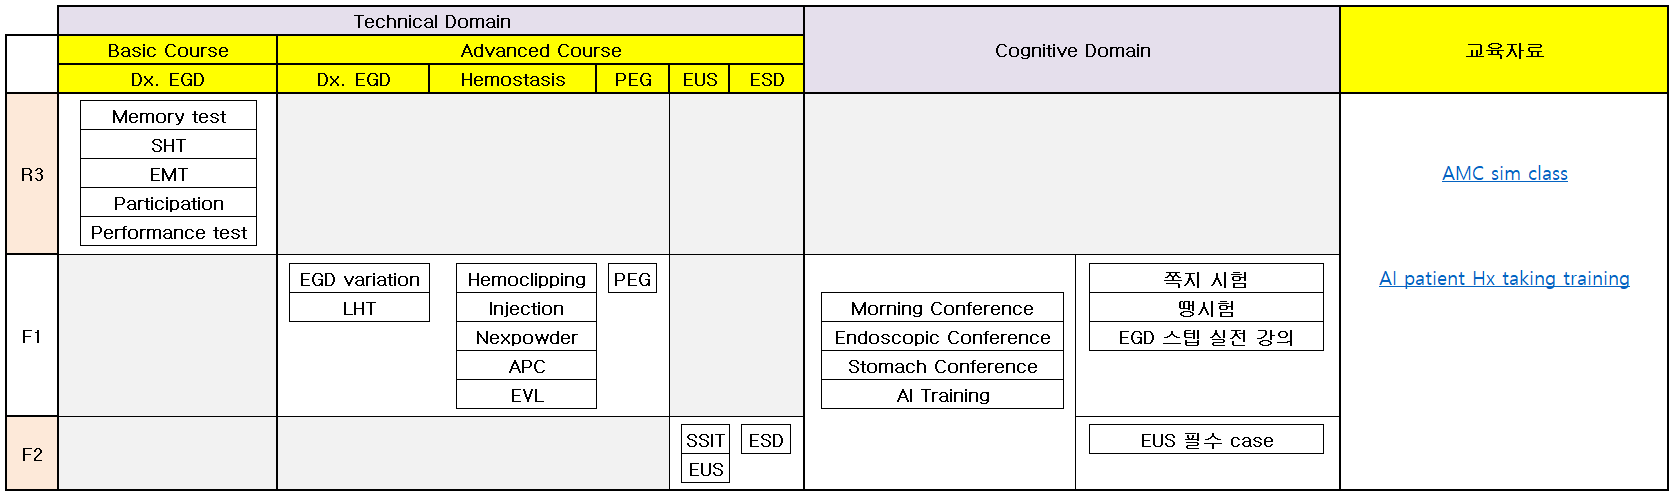
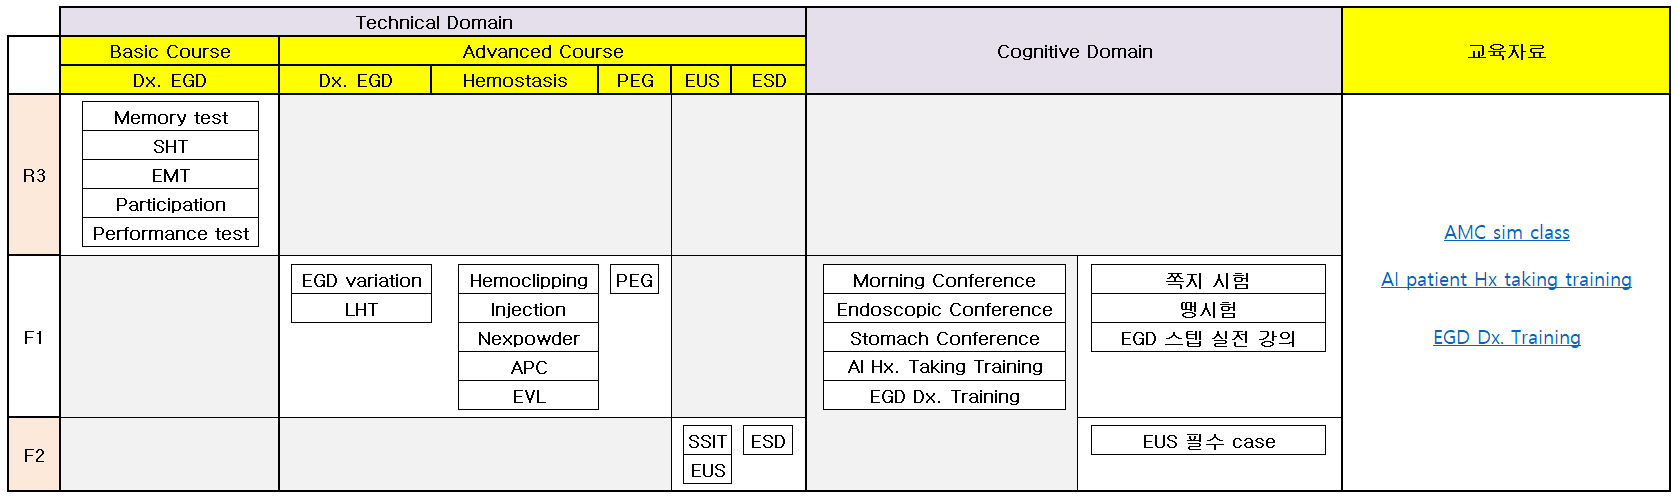
ㅇ

diff --git a/pages/3 소화기 전임의 공통 프로그램.py b/pages/3 소화기 전임의 공통 프로그램.py
@@ -74,20 +74,19 @@ if st.session_state.get('logged_in', False):  # 로그인 상태 확인
                 '''
             )
             
-        # st.subheader("AI EGD 사진 진단 훈련 프로그램")
-        # with st.expander("AI EGD 사진 진단 훈련 프로그램의 내용을 보려면 여기를 눌러주세요"):
-        #     st.markdown(
-        #         '''
-        #         1. chatgpt를 이용한 EGD 병변 사진(png) 진단 훈련 프로그램입니다.
-        #         1. [GI training program](https://gi-training.streamlit.app/)에 접속하고, ID는 amcgi, PW는 3180을 입력하면 사용할 수 있습니다.
-        #         1. 가장 먼저 왼쪽 sidebar에서 EGD 사진을 선택하고 완료될 때까지 기다립니다.
-        #         1. 완료되면 아래의 '이전 기록 삭제 버튼'을 눌러 이전 기록을 삭제해야 합니다.
-        #         1. 완료되면 case instruction 파일을 선택하고 기다렸다가 작업이 완료되면, 보여지는 병변의 impression을 아래 입력창에 입력하고 엔터를 칩니다.
-        #         1. 좀 기다리면 권장 답안과 비교를 하여 점수를 알려 준 후 두 가지 질문을 하고 답에 대해 평가해 줍니다.
-        #         1. 이 증례에 대해 추가로 궁금한 사항이 있으면 질문하면 정해진 내용 안에서는 대답해 줍니다.
-        #         1. 매년 4월부터 다음 해 2월까지 매월 1일에 새로운 증례를 올립니다. 1년차용과 상부 2년차 용으로 나눠져 있으며, 매월 총 19 증례 정도가 새로 upload됩니다.
-        #         '''
-        #     ) 
+        st.subheader("EGD 사진 진단 훈련 프로그램")
+        with st.expander("EGD 사진 진단 훈련 프로그램의 내용을 보려면 여기를 눌러주세요"):
+            st.markdown(
+                '''
+                1. 전임의 1년차와 2년차가 알아야 할 대부분의 병변의 사진을 보고 진단을 훈련하는 프로그램입니다.(2024년 215 증례 사진)
+                1. [GI training program](https://gi-training.streamlit.app/)에 접속하고, ID는 amcgi, PW는 3986을 입력하면 사용할 수 있습니다.
+                1. 가장 먼저 왼쪽 sidebar에서 F1이나 F2를 선택합니다. 가능하면 모두 공부하길 권합니다.
+                1. 완료되면 case instruction 파일을 선택하고 기다렸다가 작업이 완료되면, 화면에서 지시하는대로 수행합니다.
+                1. 대부분 이 증례의 최종진단을 알려 주면 끝을 의미합니다.
+                1. 모든 과정에 대한 설명이 웹페이지에 있습니다. 반드시 그대로 따라 해야 하고, 다음 단계로 넘어갈 때 '열일 중'이라는 메시지가 뜰 때는 진행하지 말고 기다리세요.
+                1. 매년 4월부터 다음 해 2월까지 매월 1일에 새로운 증례를 올립니다. 1년차용과 상부 2년차 용으로 나눠져 있으며, 매월 총 19-20 증례 정도가 새로 upload됩니다.
+                '''
+            ) 
             
         st.subheader("EGD 병변 진단에 있어 M-NBI의 중요성")
         with st.expander("EGD 병변 진단에 있어 M-NBI의 중요성의 내용을 보려면 여기를 눌러주세요"):

diff --git a/pages/0 Home.py b/pages/0 Home.py
@@ -18,9 +18,9 @@ if st.session_state.get('logged_in', False):  # 로그인 상태 확인
             '''
                 ---------------------------------------------------------------------------------------------------------------------------------------------------------
                 1. 소화기 내시경 교육 동영상은 서울아산병원 시뮬레이션 센터 [Sim Class](https://edu.amc.seoul.kr/)에서 시청할 수 있습니다.
-                    * ID 와 PW를 받아서 로그인 합니다.
+                    * ID와 PW는 각자 사번(ex: D240000)으로 설정되어 있습니다. 로그인 후 반드시 ★개인정보수정(e-mail 주소, 핸드폰번호, 영문명 등)★ 부탁드립니다. 로그인 및 Sim Class 관련 문의는 시뮬레이션센터 류수지(T.1018) 에게 아산웍스 또는 유선으로 문의바랍니다.
                     * 필요한 동영상을 청취하면 자동으로 출석 처리 됩니다.
-                1. AI 소화기 환자 병력 청취 훈련 프로그램은 [GI training program](https://gi-training.streamlit.app/) 웹페이지에 접속하여 ID는 amcgi이고, PW는 3180을 입력하시면 사용하실 수 있습니다.
+                1. AI 소화기 환자 병력 청취 훈련 프로그램은 [GI training program](https://gi-training.streamlit.app/) 웹페이지에 접속하여 ID는 amcgi이고, PW는 3986을 입력하시면 사용하실 수 있습니다.
                 1. 소화기 전임의 공통 프로그램 페이지에 NBI 리뷰 논문 링크를 적어 놓았습니다. 반드시 공부하기 바랍니다.
                 1. 전임의 외래 참관 (2024): 새로 추가, 소화기 전임의 1년차에게만 해당하는 교육 프로그램입니다.
                     * 최소 1달에 1회 / 1년에 12회 참관합니다.

diff --git a/pages/4 소화기 전임의 1년차용.py b/pages/4 소화기 전임의 1년차용.py
@@ -31,6 +31,7 @@ if st.session_state.get('logged_in', False):  # 로그인 상태 확인
             1. 진단 EGD를 빨리 배우고 싶은 마음은 이해됩니다. 그러나 ER, 강릉, GI B 등의 일정도 있기 때문에 일정 정하는데 갈등이 있을 수 있겠습니다. 과내 지침은 초반에는 주로 원내 출신이 앞의 일정을 맡고 그 다음 달에는 앞의 일정은 빠진다는 것입니다. 모쪼록 원내 출신 선생님들의 자발적인 협조를 부탁합니다.
             1. [Sim Class](https://edu.amc.seoul.kr/)에 올려져 있는 교육 자료들은 매우 충실하게 잘 만든 교육자료 입니다. 시기별로 자기에게 맞는 내용을 꼭 반복해서 학습하세요.
             1. AI 환자 병력 청취 훈련 프로그램은 매우 강력한 프로그램입니다. 완전히 자기 것이 될 정도로 훈련하면 실력향상에 큰 도움이 되니 열심히 하세요.
+            1. EGD Dx. 진단 훈련 프로그램은 매우 강력한 프로그램입니다. 여러분이 알아야 할 거의 모든 증례를 다룹니다. 완전히 자기 것이 될 정도로 훈련하면 실력향상에 큰 도움이 되니 열심히 하세요.
         '''
         )
     with tab2:

diff --git a/pages/5 소화기 전임의 상부 2년차용.py b/pages/5 소화기 전임의 상부 2년차용.py
@@ -31,6 +31,7 @@ if st.session_state.get('logged_in', False):  # 로그인 상태 확인
             1. 가만히 있으면 아무도 안챙겨 줍니다. 시간을 짜내서라도 치료 내시경 세션에 참여하세요.
             1. [Sim Class](https://edu.amc.seoul.kr/)에 올려져 있는 교육 자료들은 1년차 뿐 아니라 여러분에게도 매우 도움이 되는 내용들이니 꼭 보기 바랍니다.
             1. AI 환자 병력 청취 훈련 프로그램은 매우 강력한 프로그램입니다. 완전히 자기 것이 될 정도로 훈련하면 실력향상에 큰 도움이 되니 열심히 하세요.
+            1. EGD Dx. 진단 훈련 프로그램은 매우 강력한 프로그램입니다. 여러분이 알아야 할 거의 모든 증례를 다룹니다. 완전히 자기 것이 될 정도로 훈련하면 실력향상에 큰 도움이 되니 열심히 하세요.
             1. 내시경실 전 직원은 여러분의 명령을 받는 부하가 아니라 같이 일하는 동료입니다.
             1. 교육위원회에 허락을 받지 않은 사람을 병원내에서 무단으로 교육하는 것은 금지입니다.
         '''

diff --git a/Login.py b/Login.py
@@ -11,7 +11,7 @@ st.header("Login page")
 st.markdown(
     '''
     1. 이 게시판은 서울 아산병원 GI 상부 전용 게시판입니다.
-    1. GI 상부의 교육 관련 공지사항 전달과 문서 자료 제공을 위한 공간입니다.
+    1. GI 상부의 교육 관련 공지사항 전달과 문서 자료 제공을 위한 공간입니다. 일반 공지는 취급하지 않습니다.
     1. 아래에 미리 등록하신 이메일 주소와 비밀 번호를 입력하시면, 옆의 sidebar에 있는 웹페이지를 이용할 수 있게됩니다.
     '''
 )
